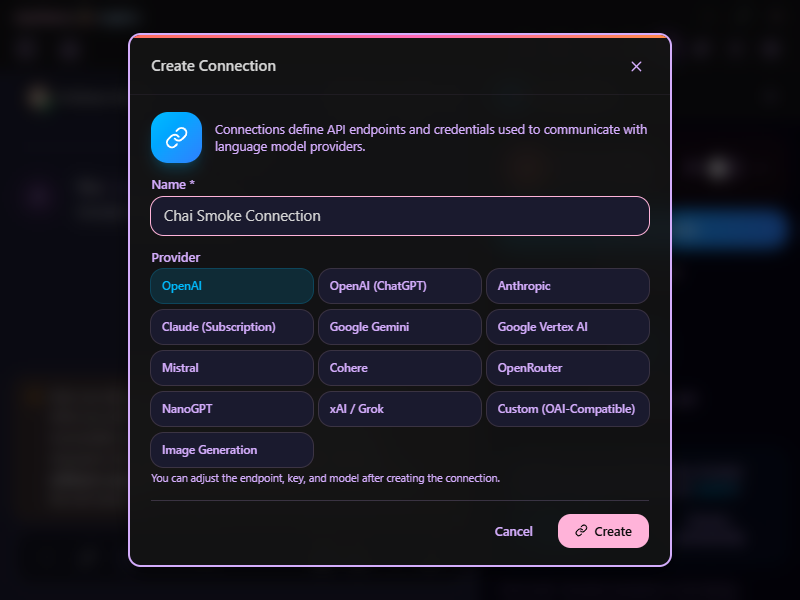
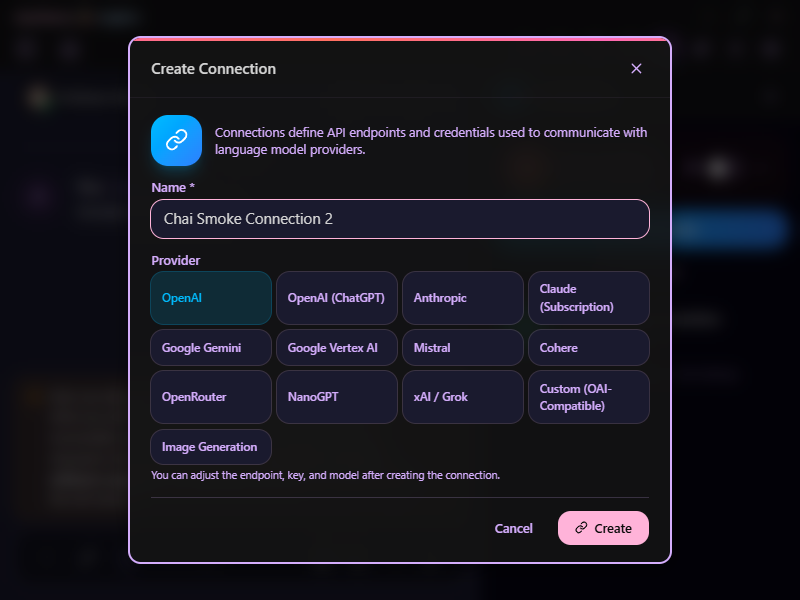
Address connection modal grid feedback

Changed region(s): [[0.1562, 0.18, 0.8438, 0.96], [0.1562, 0.03, 0.8438, 0.12], [0.625, 0.87, 0.6875, 0.9]]

diff --git a/src/features/connections/components/CreateConnectionModal.tsx b/src/features/connections/components/CreateConnectionModal.tsx
@@ -80,7 +80,7 @@ export function CreateConnectionModal({ open, onClose }: Props) {
 
         <div className="flex flex-col gap-1">
           <span className="text-xs font-medium text-[var(--muted-foreground)]">Provider</span>
-          <div className="grid grid-cols-2 gap-1.5 sm:grid-cols-3">
+          <div className="grid grid-cols-2 gap-1.5 sm:grid-cols-3 md:grid-cols-4">
             {(Object.entries(PROVIDERS) as [APIProvider, (typeof PROVIDERS)[APIProvider]][])
               .filter(([key]) => isTauriRuntimeProvider(key))
               .map(([key, info]) => (

diff --git a/updates/people/chai.md b/updates/people/chai.md
@@ -38,7 +38,7 @@ The dialog content is taller than the visible modal area at the default desktop 
 ### Notes
 
 - Screenshot: `docs/pr-evidence/create-connection-modal-layout/before.png`
-- Fix: widened the Create Connection modal and switched the provider grid to three columns on desktop so the action row is visible at 800x600.
+- Fix: widened the Create Connection modal and switched the provider grid to a progressive 2/3/4-column layout so the action row is visible at 800x600.
 - Fixed-state screenshot: `docs/pr-evidence/create-connection-modal-layout/after.png`
 - Verification: created `Chai Smoke Connection`; the connection appeared in the Connections panel and opened its detail editor.
 - Baseline: `pnpm check` passed.